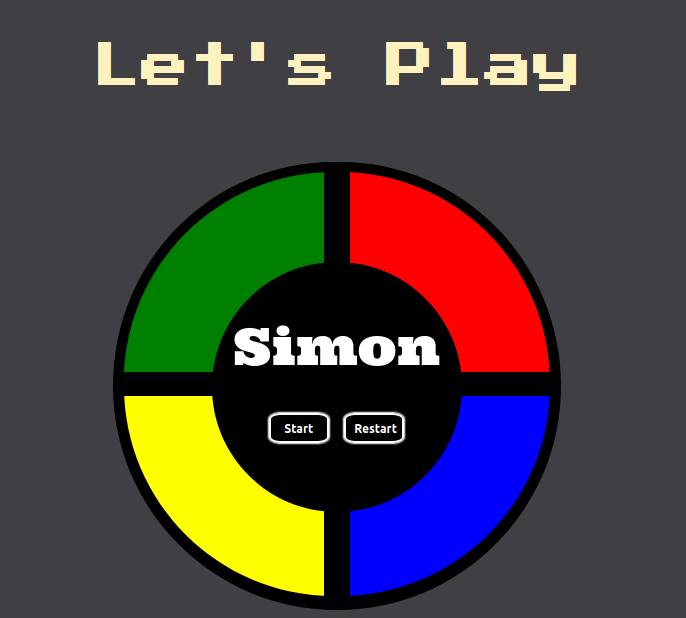
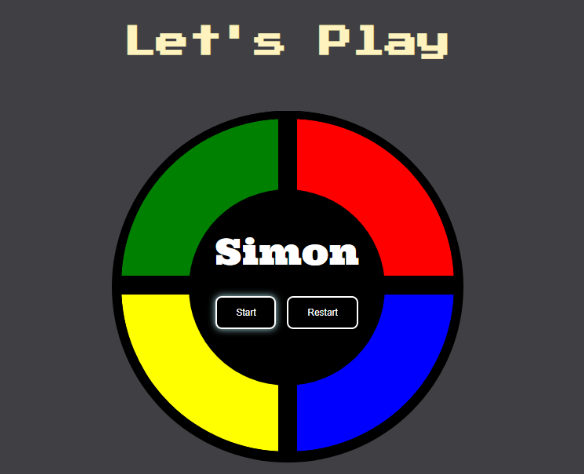
Change button styles..
Change button style and title font-size and update readme.md with img.png

diff --git a/styles.css b/styles.css
@@ -6,7 +6,7 @@ body {
 
 #level-title {
   font-family: 'Press Start 2P', cursive;
-  font-size: 3rem;
+  font-size: 2.6rem;
   margin:  5%;
   color: #FEF2BF;
 }
@@ -28,6 +28,7 @@ body {
   width: 200px;
   border: 10px solid black;
   text-align: center;
+  cursor: pointer;
   
 }
 .btn.green {
@@ -56,24 +57,32 @@ body {
   border-radius: 100%;
   color: white;
   font-family: 'Ultra', serif;
-  font-size: 52px; 
+  font-size: 46px; 
   text-align:center;
   z-index: 100;
 }
 .middle p{
-  margin: 50px auto 0;
+  margin: 50px auto 6px;
 }
-.start-btn{
-  height: 30px;
-  width: 60px;
-  background-color: black;
-  border: 2px solid white;
-  border-radius: 20%;
+.start-btn {
   color: white;
-  font-weight: bold;
+  background-color: black;
+  outline: 0;
+  padding: 12px 24px;
+  border: 2px solid white;
+  border-radius: 8px;
+  cursor: pointer;
   font-size: 12px;
-  box-shadow: 0 0 1px 1px;
 }
+
+.start-btn:active {
+  transform: scale(0.95);
+}
+
+.start-btn:focus {
+  box-shadow: 0px 0px 10px rgb(171, 223, 230);
+}
+
 .game-over {
   background-color: red;
   opacity: 0.8;
